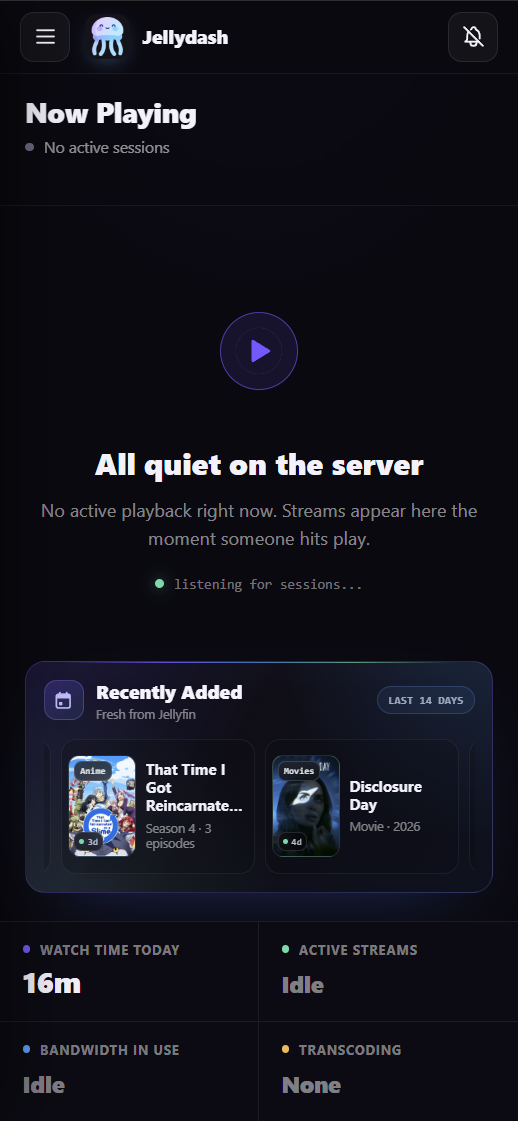
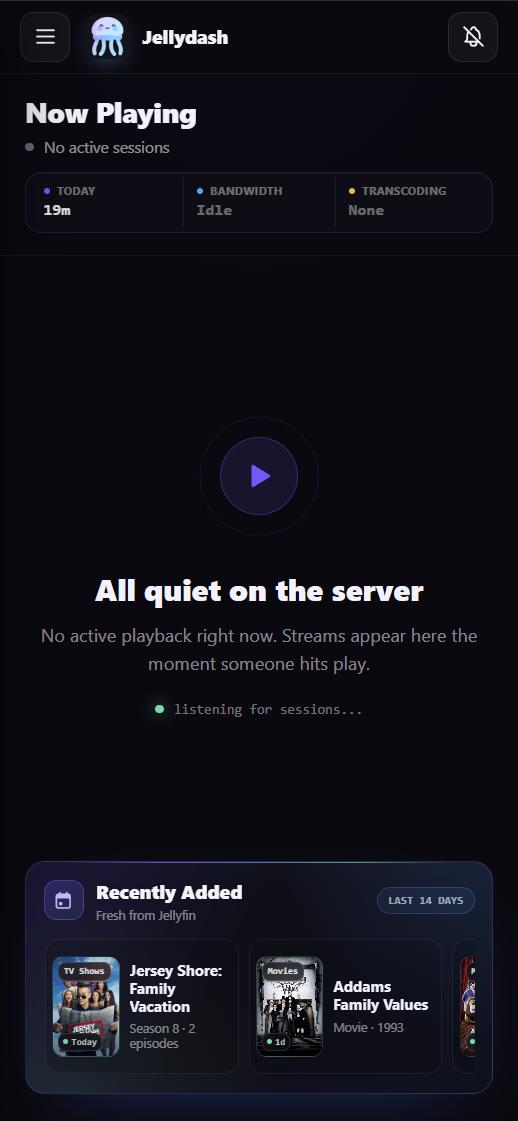
Refresh screenshots for v1.5.0

diff --git a/README.md b/README.md
@@ -33,7 +33,9 @@ The project is very young and in very active development.
 
 ## Screenshots
 
-![Now Playing](docs/assets/now-playing.png)
+| Now Playing, actively streaming | Now Playing, all quiet |
+| --- | --- |
+| ![Now Playing with two active streams](docs/assets/now-playing-active.png) | ![Now Playing with no active streams](docs/assets/now-playing-idle.png) |
 
 | History | Jellyseerr requests |
 | --- | --- |
@@ -49,7 +51,7 @@ The project is very young and in very active development.
   <img src="docs/assets/mobile-playing.png" width="270" alt="Jellydash active stream view on Android">
 </p>
 <p align="center">
-  <sub>Installed as an app on Android, idle or actively streaming</sub>
+  <sub>Installed as an app on Android, actively streaming or all quiet</sub>
 </p>
 
 <details>
